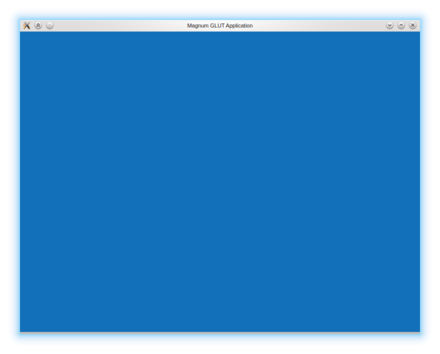
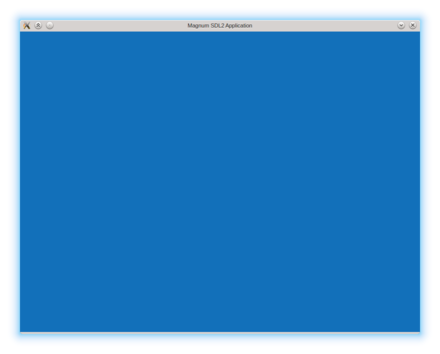
Use SDL 2 instead of GLUT as the default and recommended toolkit.

Changed region(s): [[0.2955, 0.0311, 0.6795, 0.0932]]

diff --git a/src/Magnum/Platform/AndroidApplication.h b/src/Magnum/Platform/AndroidApplication.h
@@ -59,14 +59,14 @@ CMake.
 
 ## Bootstrap application
 
-Fully contained base application using @ref GlutApplication for desktop build
+Fully contained base application using @ref Sdl2Application for desktop build
 and @ref AndroidApplication for Android build along with full Android packaging
 stuff and CMake setup is available in `base-android` branch of
 [Magnum Bootstrap](https://github.com/mosra/magnum-bootstrap) repository,
 download it as [tar.gz](https://github.com/mosra/magnum-bootstrap/archive/base-android.tar.gz)
 or [zip](https://github.com/mosra/magnum-bootstrap/archive/base-android.zip) file.
 After extracting the downloaded archive, you can do the desktop build in the
-same way as with @ref GlutApplication. For the Android build you also
+same way as with @ref Sdl2Application. For the Android build you also
 need to put the contents of toolchains repository from https://github.com/mosra/toolchains
 in `toolchains/` subdirectory. Don't forget to adapt `ANDROID_NDK_ROOT` in
 `toolchains/generic/Android-*.cmake` to path where NDK is installed. Default is

diff --git a/src/Magnum/Platform/NaClApplication.h b/src/Magnum/Platform/NaClApplication.h
@@ -68,14 +68,14 @@ CMake.
 
 ## Bootstrap application
 
-Fully contained base application using @ref GlutApplication for desktop build
+Fully contained base application using @ref Sdl2Application for desktop build
 and @ref NaClApplication for Native Client build along with full HTML markup
 and CMake setup is available in `base-nacl` branch of
 [Magnum Bootstrap](https://github.com/mosra/magnum-bootstrap) repository,
 download it as [tar.gz](https://github.com/mosra/magnum-bootstrap/archive/base-nacl.tar.gz)
 or [zip](https://github.com/mosra/magnum-bootstrap/archive/base-nacl.zip) file.
 After extracting the downloaded archive, you can do the desktop build in the
-same way as with @ref GlutApplication. For the Native Client build you also
+same way as with @ref Sdl2Application. For the Native Client build you also
 need to put the contents of toolchains repository from https://github.com/mosra/toolchains
 in `toolchains/` subdirectory. Don't forget to adapt `NACL_PREFIX` variable in
 `toolchains/generic/NaCl-newlib-x86-32.cmake` and

diff --git a/src/Magnum/Platform/AbstractXApplication.h b/src/Magnum/Platform/AbstractXApplication.h
@@ -220,19 +220,19 @@ class AbstractXApplication::Configuration {
             return *this;
         }
 
-        /** @copydoc GlutApplication::Configuration::size() */
+        /** @copydoc Sdl2Application::Configuration::size() */
         Vector2i size() const { return _size; }
 
-        /** @copydoc GlutApplication::Configuration::setSize() */
+        /** @copydoc Sdl2Application::Configuration::setSize() */
         Configuration& setSize(const Vector2i& size) {
             _size = size;
             return *this;
         }
 
-        /** @copydoc GlutApplication::Configuration::version() */
+        /** @copydoc Sdl2Application::Configuration::version() */
         Version version() const { return _version; }
 
-        /** @copydoc GlutApplication::Configuration::setVersion() */
+        /** @copydoc Sdl2Application::Configuration::setVersion() */
         Configuration& setVersion(Version version) {
             _version = version;
             return *this;

diff --git a/src/Magnum/DefaultFramebuffer.h b/src/Magnum/DefaultFramebuffer.h
@@ -45,7 +45,7 @@ surface.
 
 When you are using only the default framebuffer, the usage is simple. You
 must ensure that it is properly resized when application surface is resized,
-i.e. you must pass the new size in your @ref Platform::GlutApplication::viewportEvent() "viewportEvent()"
+i.e. you must pass the new size in your @ref Platform::Sdl2Application::viewportEvent() "viewportEvent()"
 implementation, for example:
 @code
 void viewportEvent(const Vector2i& size) {
@@ -56,7 +56,7 @@ void viewportEvent(const Vector2i& size) {
 @endcode
 
 Next thing you probably want is to clear all used buffers before performing
-any drawing in your @ref Platform::GlutApplication::drawEvent() "drawEvent()"
+any drawing in your @ref Platform::Sdl2Application::drawEvent() "drawEvent()"
 implementation, for example:
 @code
 void drawEvent() {

diff --git a/src/Magnum/Platform/XEglApplication.h b/src/Magnum/Platform/XEglApplication.h
@@ -76,10 +76,10 @@ to simplify porting.
 */
 class XEglApplication: public AbstractXApplication {
     public:
-        /** @copydoc Sdl2Application::GlutApplication(const Arguments&, const Configuration&) */
+        /** @copydoc Sdl2Application::Sdl2Application(const Arguments&, const Configuration&) */
         explicit XEglApplication(const Arguments& arguments, const Configuration& configuration = Configuration());
 
-        /** @copydoc Sdl2Application::GlutApplication(const Arguments&, std::nullptr_t) */
+        /** @copydoc Sdl2Application::Sdl2Application(const Arguments&, std::nullptr_t) */
         explicit XEglApplication(const Arguments& arguments, std::nullptr_t);
 
     protected:

diff --git a/src/Magnum/Platform/GlxApplication.h b/src/Magnum/Platform/GlxApplication.h
@@ -76,10 +76,10 @@ to simplify porting.
 */
 class GlxApplication: public AbstractXApplication {
     public:
-        /** @copydoc Sdl2Application::GlutApplication(const Arguments&, const Configuration&) */
+        /** @copydoc Sdl2Application::Sdl2Application(const Arguments&, const Configuration&) */
         explicit GlxApplication(const Arguments& arguments, const Configuration& configuration = Configuration());
 
-        /** @copydoc Sdl2Application::GlutApplication(const Arguments&, std::nullptr_t) */
+        /** @copydoc Sdl2Application::Sdl2Application(const Arguments&, std::nullptr_t) */
         explicit GlxApplication(const Arguments& arguments, std::nullptr_t);
 
     protected:

diff --git a/src/Magnum/Renderer.h b/src/Magnum/Renderer.h
@@ -145,7 +145,7 @@ class MAGNUM_EXPORT Renderer {
             /**
              * Multisampling. Enabled by default. Note that the actual presence
              * of this feature in default framebuffer depends on context
-             * configuration, see for example Platform::GlutApplication::Configuration::setSampleCount().
+             * configuration, see for example @ref Platform::Sdl2Application::Configuration::setSampleCount().
              * @requires_gl Always enabled in OpenGL ES.
              */
             Multisampling = GL_MULTISAMPLE,

diff --git a/src/Magnum/DebugTools/Profiler.h b/src/Magnum/DebugTools/Profiler.h
@@ -43,7 +43,7 @@ namespace Magnum { namespace DebugTools {
 @brief %Profiler
 
 Measures time passed during specified sections of each frame. It's meant to be
-used in rendering and event loops (e.g. Platform::GlutApplication::drawEvent()),
+used in rendering and event loops (e.g. Platform::Sdl2Application::drawEvent()),
 but it's possible to use it standalone elsewhere. Example usage:
 @code
 DebugTools::Profiler p;

diff --git a/README.md b/README.md
@@ -49,8 +49,8 @@ Graphics APIs:
 Platforms:
 
 *   **Linux** and embedded Linux (natively using GLX/EGL and Xlib or through
-    GLUT or SDL2 toolkit)
-*   **Windows** (through GLUT or SDL2 toolkit)
+    SDL2 or GLUT toolkit)
+*   **Windows** (through SDL2 or GLUT toolkit)
 *   **OS X** (through SDL2 toolkit, thanks to [Miguel Martin](https://github.com/miguelishawt))
 *   **Android** 2.3 (API Level 9) and higher
 *   **Google Chrome** (through [Native Client](https://developers.google.com/native-client/),
@@ -97,13 +97,13 @@ Note that full feature set is available only on GCC 4.8.1 and Clang 3.1.
 Compilation, installation
 -------------------------
 
-The library (for example with support for GLUT applications) can be built and
+The library (for example with support for SDL2 applications) can be built and
 installed using these four commands:
 
     mkdir -p build && cd build
     cmake .. \
         -DCMAKE_INSTALL_PREFIX=/usr \
-        -DWITH_GLUTAPPLICATION=ON
+        -DWITH_SDL2APPLICATION=ON
     make
     make install
 
